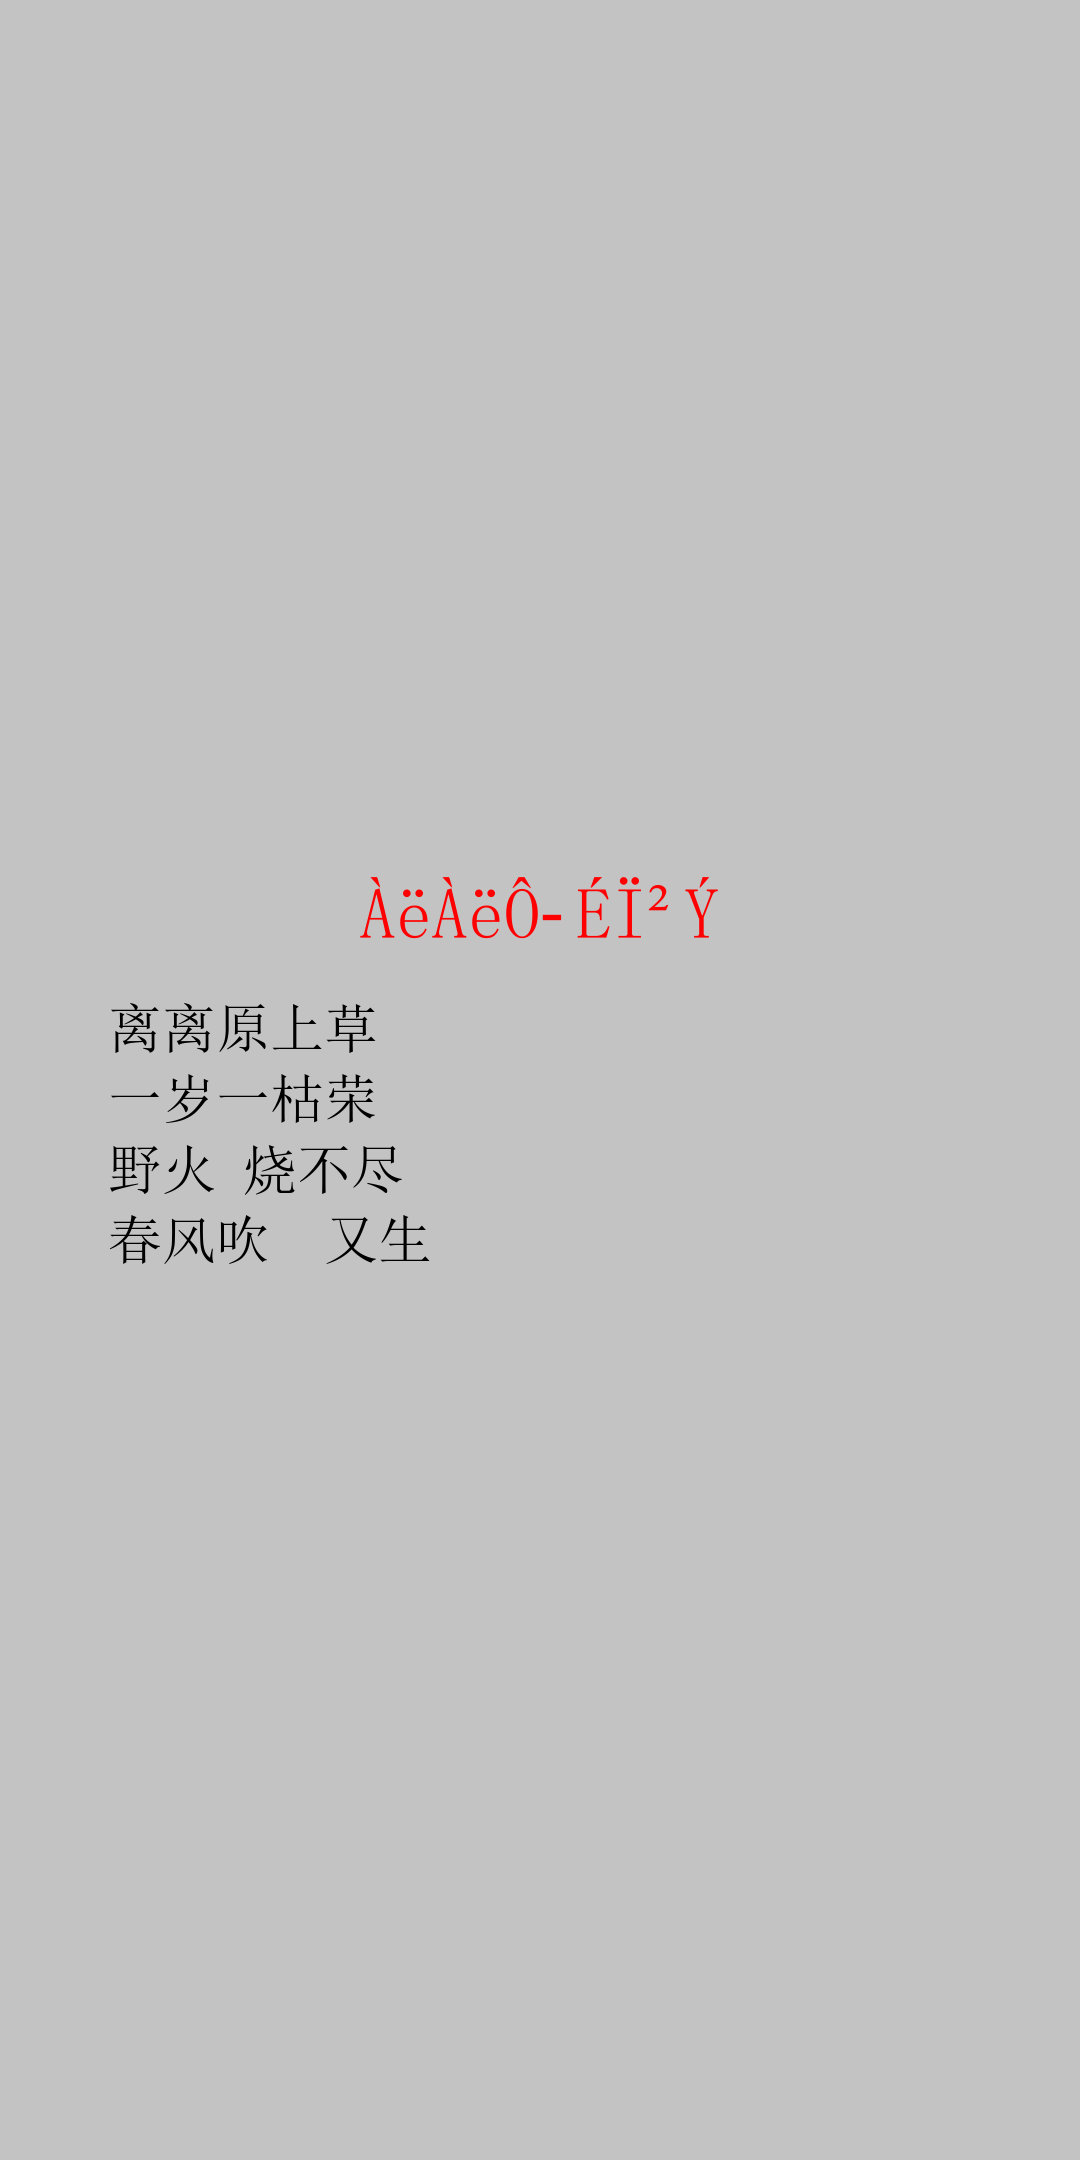
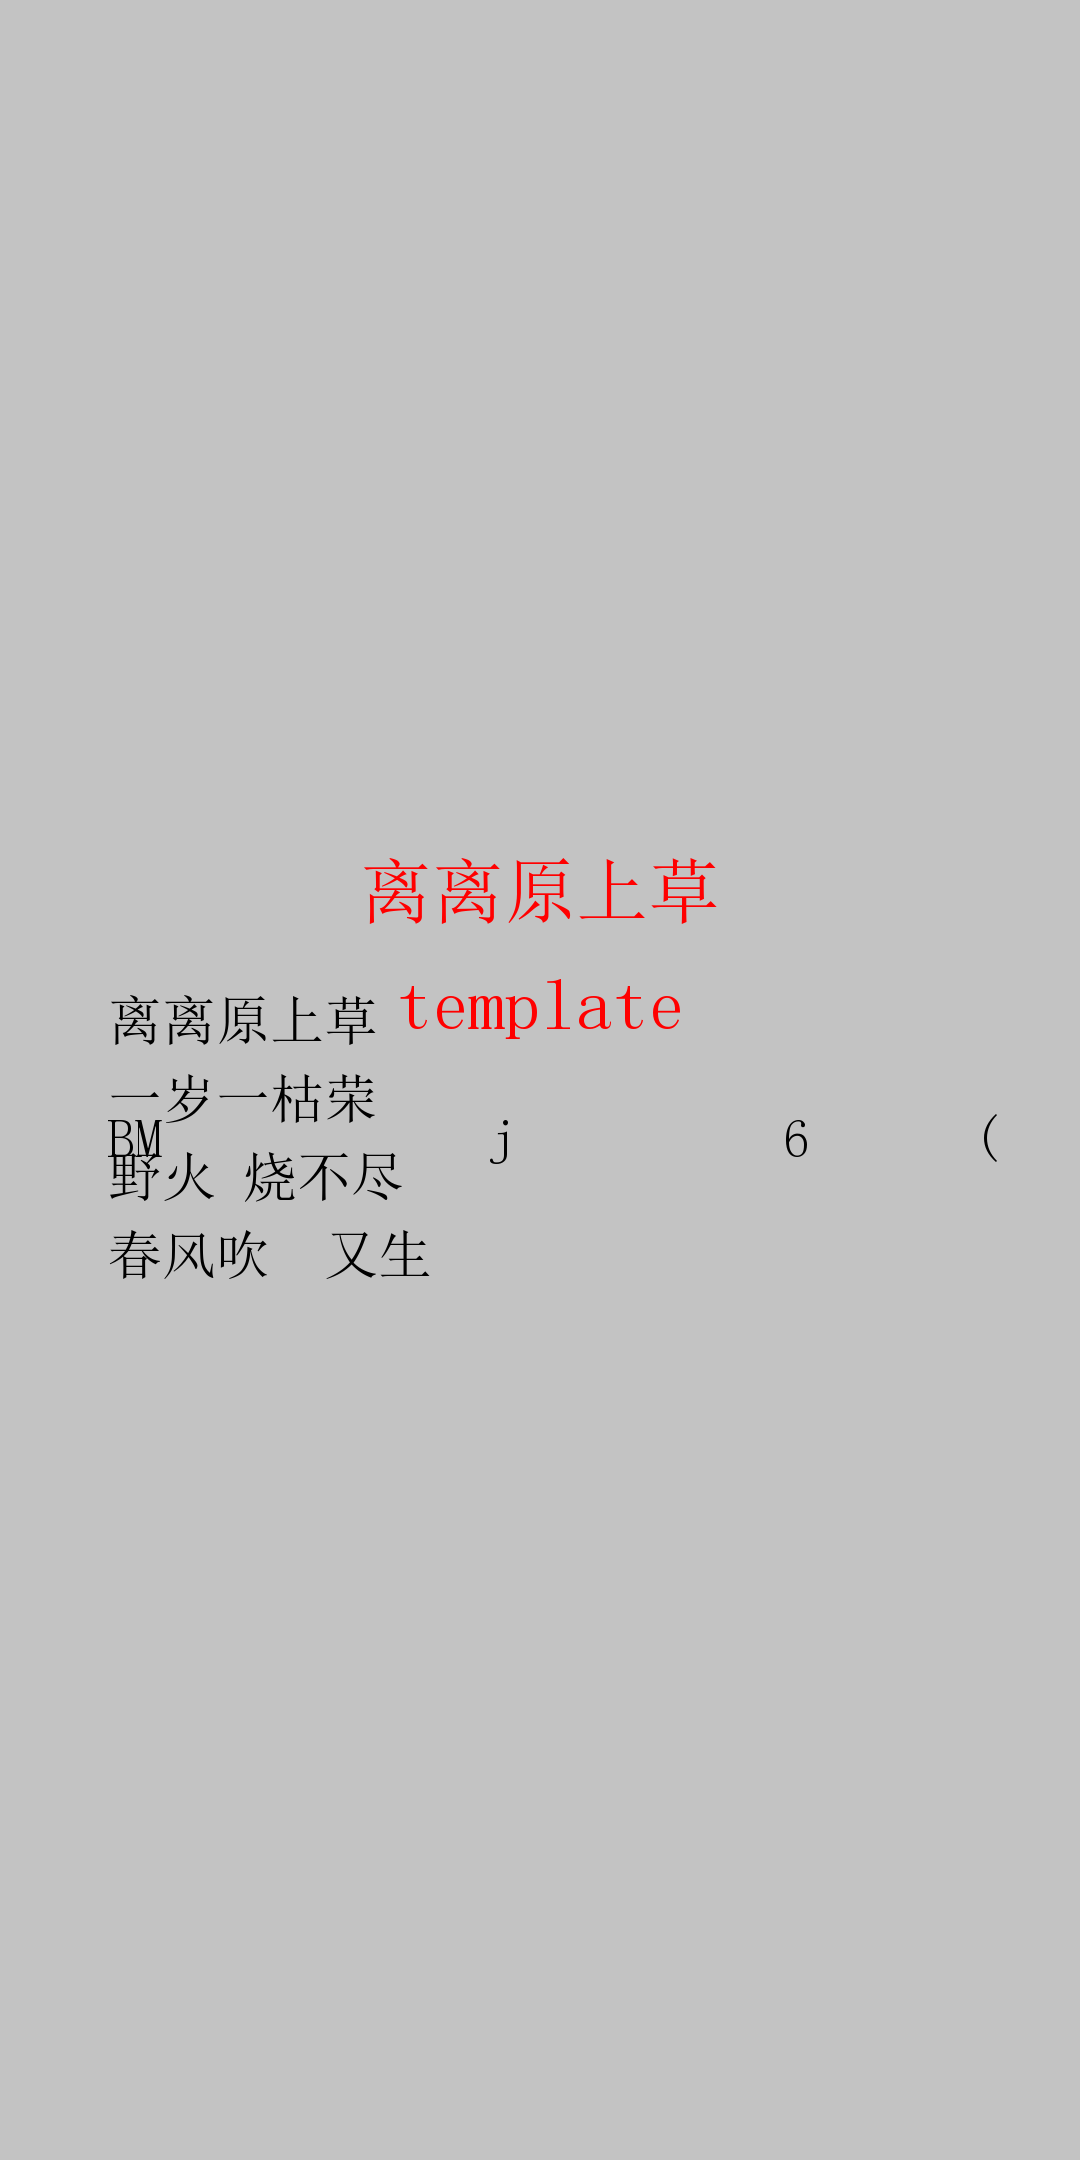
add chardet, still exist problems when with gbk str.

diff --git a/Text2Pic.py b/Text2Pic.py
@@ -5,16 +5,36 @@ import os
 import codecs
 import time
 import shutil
+import codecs
+import chardet
 from PIL import Image,ImageDraw,ImageFont
 
 reload(sys)
 sys.setdefaultencoding('utf8')
     
 def Text2Pic(text_file):
+    ###################################################################
+    #############for encode detect
+    # pic_file, txt_ext = os.path.splitext(text_file)
+    # if txt_ext != '.txt':
+        # return False
+    # title_encoding = 'utf-8'
+    # det_ret = chardet.detect(text_file)
+    # if det_ret:
+        # print det_ret
+        # title_encoding = det_ret['encoding']
+        # print 'title_encoding', title_encoding
+    #text_file = text_file.decode(title_encoding)
+    
+    ###################################################################
+    #if isinstance(text_file, unicode)
+    text_file = text_file.decode('gbk')    ######### GBK !!!!
     pic_file, txt_ext = os.path.splitext(text_file)
     if txt_ext != '.txt':
         return False
-    title_text = pic_file.split('\\')[-1]
+    title_text = os.path.split(pic_file)[-1]
+    print 'title', title_text
+    
     pic_file = pic_file + '.png'
     print '   ', text_file, "===>", pic_file
     
@@ -32,15 +52,23 @@ def Text2Pic(text_file):
     title_font = ImageFont.truetype('simsun.ttc', total_width/15)
     normal_font = ImageFont.truetype('simsun.ttc', total_width/20)
     ################################################################
-    
-    with open(text_file, 'r') as file_hd: 
+    normal_encoding = 'utf-8'
+    with open(text_file, 'rb') as file_hd:
+        raw_data = file_hd.read(4096)
+        det_ret = chardet.detect(raw_data)
+        if det_ret:
+            print det_ret
+            normal_encoding = det_ret['encoding']
+            print 'normal_encoding', normal_encoding
+            
+    with codecs.open(text_file, 'r', normal_encoding) as file_hd: 
         lines = file_hd.readlines()
         line_height = normal_font.getsize(title_text)[1]*1.5    #####行间距1.5倍
         
         max_width = 0
         line_num = len(lines)
         for i, line in enumerate(lines):
-            normal_text = line.decode('utf-8').strip()
+            normal_text = line.strip()
             tmp_width = (total_width - normal_font.getsize(normal_text)[0])/2
             if max_width < tmp_width:
                 max_width = tmp_width
@@ -60,7 +88,8 @@ def Text2Pic(text_file):
         draw.text((title_start_x, title_start_y), title_text, title_color, font=title_font)
         
         for i, line in enumerate(lines):
-            normal_text = line.decode('utf-8').strip()
+            normal_text = line.strip()
+            print '    [%d]'%i, normal_text
             cure_pos_y = normal_start_y + line_height*i
             draw.text((normal_start_x, cure_pos_y), normal_text, normal_color, font=normal_font)
             
@@ -88,7 +117,7 @@ if "__main__" == __name__:
                 #print root, dirs, files
                 for file in files:
                     #print file
-                    Text2Pic(os.path.join(root, file) )
+                    Text2Pic(os.path.join(root, file))
     except Exception, err:
         #print err
         print '===> Exception'
